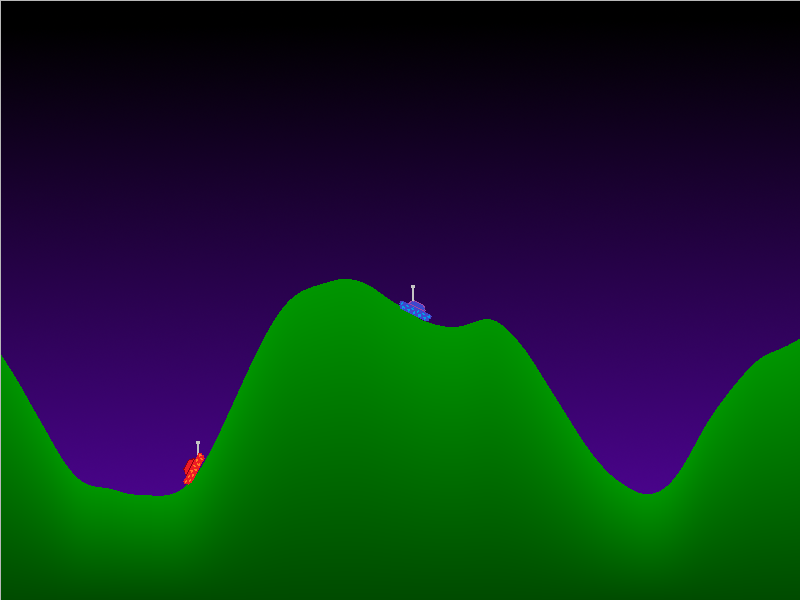
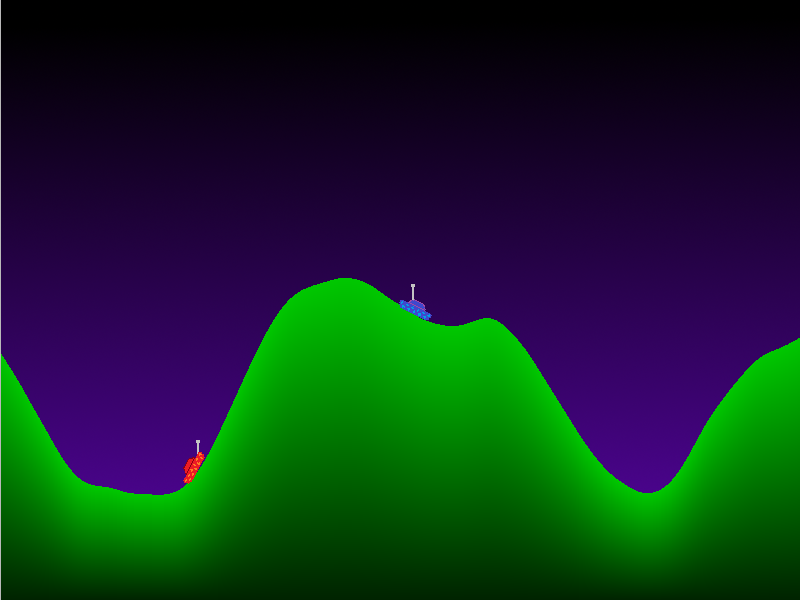
Aktualizacja wyglądu

Changed region(s): [[0.0, 0.45, 1.0, 0.87], [0.0, 0.9, 1.0, 1.0]]

diff --git a/Projekt/Land.cpp b/Projekt/Land.cpp
@@ -23,7 +23,7 @@ void Land::Generate()
         for(int y = WindowHeight - height_[x]; y < WindowHeight ; y++)
         {
             image_.setPixel(x, y, Gradient(float(WindowHeight - y) / height_[x],
-                                              sf::Color(0, 75, 0), sf::Color(0, 150, 0)));
+                                              sf::Color(0, 35, 0), sf::Color(0, 200, 0)));
         }
     }
 }
